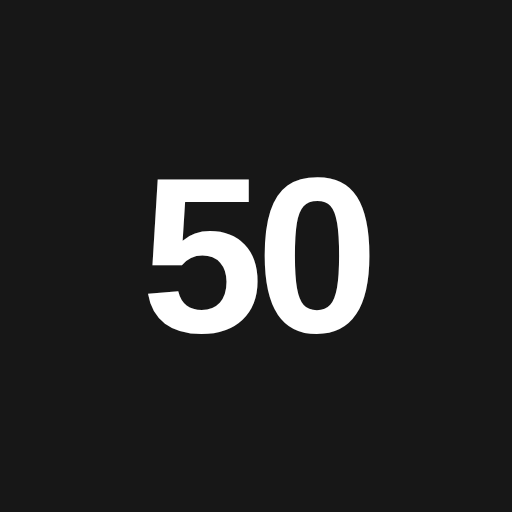
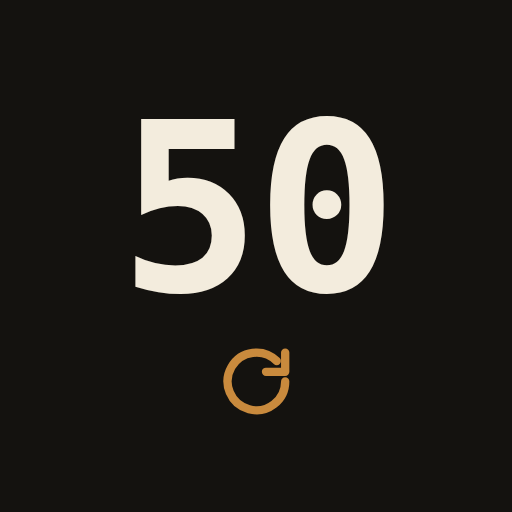
feat: splash screen animado (contador 0-50) e ícones estáticos combinando
Splash real no boot do app: janela de contador mecânico (estilo
odômetro/tally-clicker) rolando de 0 a 50, começando devagar e
acelerando até travar em 50, quando o ícone de redo/repetição aparece
embaixo com um brilho em latão. Mostra uma vez por sessão de aba
(sessionStorage), respeita prefers-reduced-motion (pula direto pro
resultado final sem animação) e não bloqueia a navegação por muito
tempo (~4.3s do início ao fade-out).

Ícones estáticos (icon-192, icon-512, icon-maskable-512,
apple-touch-icon) regenerados no mesmo estilo — "50" + ícone de
repetição em latão sobre o fundo escuro do splash — gerados via
screenshot headless de um template HTML, pra manter a mesma paleta e
tipografia. background_color/theme_color do manifest e viewport
atualizados pra bater com o fundo do splash, senão o splash nativo do
SO piscava branco antes do nosso JS assumir.

Testado com Postgres local descartável + Playwright, incluindo build
de produção real (next build && next start, não só dev) pra confirmar
que não reaparece numa segunda navegação dentro da mesma sessão — em
dev mode isso piscava por causa da hidratação mais lenta do Turbopack,
não é bug em produção.

Claude-Session: https://claude.ai/code/session_01PWY8KSWn1rD4huKtAzeQz4

Changed region(s): [[0.25, 0.2188, 0.75, 0.6562], [0.4375, 0.6562, 0.5938, 0.8125]]

diff --git a/components/splash-screen.tsx b/components/splash-screen.tsx
@@ -1,0 +1,232 @@
+'use client'
+
+import * as React from 'react'
+import { cn } from '@/lib/utils'
+
+const REEL_LENGTH = 51 // 0..50
+const ROLL_DURATION_MS = 3100
+const HOLD_MS = 700
+const FADE_MS = 500
+const SESSION_KEY = 'fifty-repz-splash-shown'
+
+type Phase = 'spinning' | 'landed' | 'exiting' | 'done'
+
+export function SplashScreen() {
+  const [phase, setPhase] = React.useState<Phase>('spinning')
+
+  React.useLayoutEffect(() => {
+    if (sessionStorage.getItem(SESSION_KEY)) {
+      // sincroniza antes do primeiro paint pra não piscar em navegações
+      // dentro da mesma aba (já mostrou o splash nesta sessão)
+      // eslint-disable-next-line react-hooks/set-state-in-effect
+      setPhase('done')
+      return undefined
+    }
+    sessionStorage.setItem(SESSION_KEY, '1')
+
+    const reduced = window.matchMedia(
+      '(prefers-reduced-motion: reduce)',
+    ).matches
+    const rollDuration = reduced ? 0 : ROLL_DURATION_MS
+
+    const landTimer = window.setTimeout(() => setPhase('landed'), rollDuration)
+    const exitTimer = window.setTimeout(
+      () => setPhase('exiting'),
+      rollDuration + HOLD_MS,
+    )
+    const doneTimer = window.setTimeout(
+      () => setPhase('done'),
+      rollDuration + HOLD_MS + FADE_MS,
+    )
+
+    return () => {
+      window.clearTimeout(landTimer)
+      window.clearTimeout(exitTimer)
+      window.clearTimeout(doneTimer)
+    }
+  }, [])
+
+  if (phase === 'done') return null
+
+  const settled = phase === 'landed' || phase === 'exiting'
+
+  return (
+    <div
+      aria-hidden="true"
+      className={cn(
+        'fixed inset-0 z-100 flex items-center justify-center transition-opacity duration-500',
+        phase === 'exiting' && 'pointer-events-none opacity-0',
+      )}
+      style={{
+        background:
+          'radial-gradient(ellipse 120% 90% at 50% 38%, #1b1712 0%, #14120f 62%)',
+      }}
+    >
+      <style>{`
+        .splash-frame {
+          --cell: clamp(108px, 24vw, 188px);
+          position: relative;
+          padding: clamp(10px, 2vw, 16px);
+          border-radius: 18px;
+          background: linear-gradient(180deg, #2a251e, #1d1a16);
+          box-shadow:
+            0 1px 0 rgba(255, 255, 255, 0.04) inset,
+            0 0 0 1px rgba(0, 0, 0, 0.6),
+            0 30px 60px -25px rgba(0, 0, 0, 0.8);
+        }
+        .splash-window {
+          position: relative;
+          width: clamp(150px, 34vw, 260px);
+          height: var(--cell);
+          overflow: hidden;
+          border-radius: 10px;
+          background: #0c0a08;
+          box-shadow:
+            inset 0 2px 6px rgba(0, 0, 0, 0.85),
+            inset 0 0 0 1px rgba(0, 0, 0, 0.5);
+        }
+        .splash-window::before {
+          content: '';
+          position: absolute;
+          inset: 0;
+          z-index: 3;
+          pointer-events: none;
+          background: linear-gradient(
+            180deg,
+            #0c0a08 0%,
+            transparent 30%,
+            transparent 70%,
+            #0c0a08 100%
+          );
+        }
+        .splash-witness {
+          position: absolute;
+          left: 6%;
+          right: 6%;
+          top: 50%;
+          height: 1px;
+          z-index: 4;
+          transform: translateY(-0.5px);
+          background: #7a5a30;
+          opacity: 0.55;
+          transition: opacity 0.4s ease;
+        }
+        .splash-witness--hit {
+          opacity: 1;
+          box-shadow: 0 0 10px 1px rgba(201, 138, 61, 0.55);
+        }
+        .splash-reel {
+          display: flex;
+          flex-direction: column;
+          will-change: transform;
+          animation: splash-roll 3.1s cubic-bezier(0.74, 0, 0.88, 0.14) forwards;
+        }
+        @keyframes splash-roll {
+          from {
+            transform: translateY(0);
+          }
+          to {
+            transform: translateY(calc(var(--cell) * -50));
+          }
+        }
+        .splash-digit {
+          height: var(--cell);
+          display: flex;
+          align-items: center;
+          justify-content: center;
+          font-family:
+            ui-monospace, 'SF Mono', 'JetBrains Mono', 'Roboto Mono', monospace;
+          font-weight: 700;
+          font-size: calc(var(--cell) * 0.56);
+          font-variant-numeric: tabular-nums;
+          letter-spacing: -0.02em;
+          color: #f3ecdd;
+          text-shadow: 0 2px 0 rgba(0, 0, 0, 0.5);
+        }
+        .splash-result {
+          height: 40px;
+          display: flex;
+          align-items: center;
+          justify-content: center;
+        }
+        .splash-icon {
+          width: 34px;
+          height: 34px;
+          opacity: 0;
+          color: #c98a3d;
+        }
+        .splash-icon--show {
+          animation: splash-land 0.6s cubic-bezier(0.2, 0.9, 0.3, 1.2) forwards;
+        }
+        @keyframes splash-land {
+          0% {
+            opacity: 0;
+            transform: scale(0.6) rotate(-35deg);
+            filter: drop-shadow(0 0 0 transparent);
+          }
+          65% {
+            opacity: 1;
+            transform: scale(1.14) rotate(6deg);
+          }
+          100% {
+            opacity: 1;
+            transform: scale(1) rotate(0deg);
+            filter: drop-shadow(0 0 9px rgba(201, 138, 61, 0.55));
+          }
+        }
+        .splash-brand {
+          font-size: 11px;
+          letter-spacing: 0.34em;
+          text-transform: uppercase;
+          color: #9a9082;
+          margin: 0;
+        }
+        @media (prefers-reduced-motion: reduce) {
+          .splash-reel {
+            animation: none;
+            transform: translateY(calc(var(--cell) * -50));
+          }
+          .splash-icon--show {
+            animation: none;
+            opacity: 1;
+            filter: drop-shadow(0 0 9px rgba(201, 138, 61, 0.55));
+          }
+        }
+      `}</style>
+
+      <div className="flex flex-col items-center gap-8">
+        <div className="splash-frame">
+          <div className="splash-window">
+            <div className="splash-reel">
+              {Array.from({ length: REEL_LENGTH }, (_, n) => (
+                <div key={n} className="splash-digit">
+                  {n}
+                </div>
+              ))}
+            </div>
+            <div
+              className={cn('splash-witness', settled && 'splash-witness--hit')}
+            />
+          </div>
+        </div>
+
+        <div className="splash-result">
+          <svg
+            className={cn('splash-icon', settled && 'splash-icon--show')}
+            viewBox="0 0 24 24"
+            fill="none"
+            stroke="currentColor"
+            strokeWidth={2.4}
+            strokeLinecap="round"
+            strokeLinejoin="round"
+          >
+            <path d="M21 12a9 9 0 1 1-2.64-6.36" />
+            <path d="M21 3v6h-6" />
+          </svg>
+        </div>
+
+        <p className="splash-brand">Fifty Repz</p>
+      </div>
+    </div>
+  )
+}

diff --git a/app/layout.tsx b/app/layout.tsx
@@ -3,6 +3,7 @@ import { Geist, Geist_Mono, Inter } from 'next/font/google'
 import './globals.css'
 import { ThemeProvider } from '@/components/theme-provider'
 import { RegisterServiceWorker } from '@/components/register-service-worker'
+import { SplashScreen } from '@/components/splash-screen'
 import { cn } from '@/lib/utils'
 import { TooltipProvider } from '@/components/ui/tooltip'
 
@@ -56,7 +57,7 @@ export const metadata: Metadata = {
 }
 
 export const viewport: Viewport = {
-  themeColor: '#171717',
+  themeColor: '#14120f',
 }
 
 export default function RootLayout({
@@ -78,15 +79,14 @@ export default function RootLayout({
       )}
     >
       <body className="min-h-full flex flex-col" suppressHydrationWarning>
+        <SplashScreen />
         <ThemeProvider
           attribute="class"
           defaultTheme="system"
           enableSystem
           disableTransitionOnChange
         >
-          <TooltipProvider>
-            {children}
-          </TooltipProvider>
+          <TooltipProvider>{children}</TooltipProvider>
         </ThemeProvider>
         <RegisterServiceWorker />
       </body>
